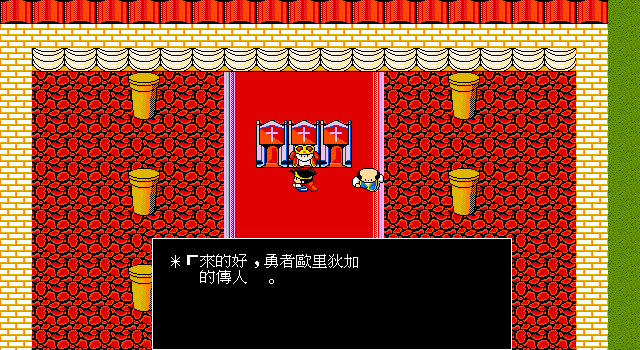
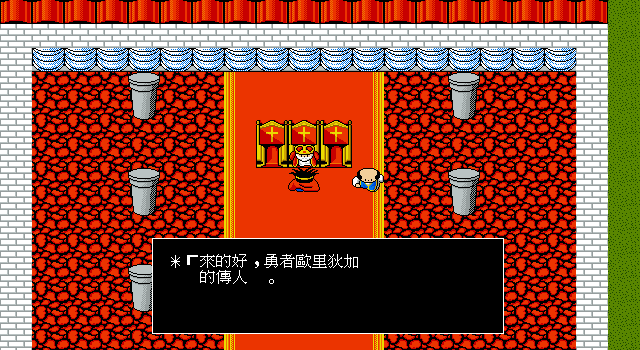
Polish opening throne evidence and progress assessment

diff --git a/dq3_remake_ebitan/game/framedump_test.go b/dq3_remake_ebitan/game/framedump_test.go
@@ -100,9 +100,17 @@ func TestDumpNewGameScreens(t *testing.T) {
 	if !g.tryOpeningRegionEvent() {
 		t.Fatal("王座 opening region 未觸發")
 	}
+	// 證據圖不能在逐字顯示剛開始時截圖，否則會把正確的 record 78
+	// 誤判成文字或分頁缺漏；事件時序另由具名測試驗證。
+	for g.dlg.revealCells < g.dlg.pageCellCount() {
+		g.dlg.Tick()
+	}
 	dump("opening_king_rec78")
 	t.Logf("開場:謁見後 cty=%d sec=%d @(%d,%d), gold=%d items=%v",
 		g.curCty, g.cur.sec, g.px, g.py, g.heroGold, g.inventory)
+	if os.Getenv("DQ3_DUMP_OPENING_ONLY") != "" {
+		return
+	}
 
 	// CTY00 原版 sub2 handler 身分接線後的兩個可達酒場畫面。
 	luida, err := loadTownSceneSec(g.assets, g.worldPal, g.manBLS, 0, mapBlkNum[0], 0, 0, nil)

diff --git a/docs/74-ebiten-remake-completion-plan.md b/docs/74-ebiten-remake-completion-plan.md
@@ -137,13 +137,13 @@
 
 | 畫面族 | 原版證據 | Ebiten 現況 | 判定 |
 |---|---|---|---|
-| 年代／巨龍 cutscene | DOSBox、TIT/FIRST 資產 | `opening` 五張 PCX 已由 game-pack 載入；桌面／mobile 正式入口可無輸入播放、正式輸入跳過並交回標題 | E2／V1；素材 identity 為 D2，120 幀停留、排序／淡入淡出、TITP 位置與音效仍待 V3 |
+| 年代／巨龍 cutscene | DOSBox、TIT/FIRST 資產 | `opening` 五張 PCX 已由 game-pack 載入；桌面／mobile 正式入口可無輸入播放、正式輸入跳過並交回標題 | E2／V1；素材 identity 為 D2，120 幀是 pack 明示近似；淡入淡出、TITP 位置與音效仍待同狀態動態 oracle，不冒稱 V3 |
 | 標題 | DOSBox、影片、網路圖 | 標題／主選單／創角 lifecycle 已有 | E2；逐畫面仍待對拍 |
-| attract 職業巡禮 | 影片、`docs/67` TITH–TITO | pack 八卡輪播、輸入中斷、runtime 圖已接 | E2／V1；能力條逐幀仍待 V3 |
+| attract 職業巡禮 | 影片、`docs/67` TITH–TITO | pack 八卡輪播、輸入中斷、runtime 圖已接；每卡 1200 幀約 20 秒為既有 D2 對拍 | E2／V1；能力條長度、增長節奏與淡入淡出缺逐格 oracle，仍待 V3 且不得猜值 |
 | 主選單 | DOSBox、網路圖 | 新遊戲與載入皆有正式輸入入口；campaign 由新遊戲入口達 E3 | 功能 E3；逐畫面版面仍是可選 V3 |
 | 主角姓名／性別 | DOSBox 正式輸入、IDA、同狀態 PNG | 共用元件與正式 trace；`FIRST.SCR`、record 407 的 13 個具名確認欄位、三層 raw EGA backdrop 與 `beveled_2px` frame 均由 pack 接入 | E3；能力確認固定 checkpoint 已 V3 靜態（AE 1,474／640×350），游標閃爍、palette register、能力條與整段 timing 仍待動態 V3 |
 | 家中／母親 | DOSBox、影片、IDA `sub_1010B` | sec4 家中逐格、轉場後自動行走與同格 rec80→rec79 已由 pack 接線；原始 record 與 handler consumer 閉合 | E3；文字 record／cell layout V3，逐格路線與 wall-clock 仍僅 V2 |
-| 王城謁見 | 攻略、影片、地圖 | 正式 region gate／精確獎勵／一次性已接；rec78 勇者像素差異測試已通過 | E3；角色構圖 V2，viewport／palette／對話框與分頁不是 V3 |
+| 王城謁見 | 攻略、影片、地圖、EXE 全域視窗契約 | 正式 region gate／精確獎勵／一次性已接；rec78 勇者像素差異測試已通過；證據產生器固定輸出完整顯示的 rec78 當頁，避免逐字初始幀造成假缺字 | E3；角色構圖、record／20×4／16×16 cell 已閉合；缺同頁原版畫格，整體仍為 V2，不把 viewport／palette 升格 V3 |
 | 酒場／登錄所 | 攻略、D3TXT、地圖、EXE handler | 正式入口與四人隊正常輸入 trace 已閉合（2026-07-28） | E3 |
 | 四人縱列 | 影片多處 | pack 對映 + 8 步 trail + 死者隊尾 + runtime 對拍已接 | E2；需同狀態 V3 |
 | 城鎮／洞窟 | 影片、全 CTY render、DOSBox、IDA `sub_1BD97` | 通用 loader/render、CTY `+0x11` 遭遇 gate、步數與主線 entrance／event transaction 已接 | 主線 E3；非主線逐入口與同狀態畫面屬可選 V3 |
@@ -1456,5 +1456,6 @@ macOS 真機驗收，分別屬證據限制或可選驗收，不是 remake 功能
   最後一段關閉後才交易旗標並續走。
   同狀態抽樣已消除先前「小型城堡／錯誤背景」判讀，仍未聲稱逐格 timing 或文字分頁 V3。
 - 驗收：`internal/dq3data`、`internal/gamepack` 與開場／三道具目標測試通過；完整 campaign
-  本批未重跑，既有 E3 不因局部測試升降。下一個視覺窄切片是 rec78 同頁文字／角色 sprite
-  與水平 viewport 抽樣，不重新開啟無界 RE。
+  本批未重跑，既有 E3 不因局部測試升降。rec78 dump 已固定為完整當頁，並停止
+  把逐字初始幀當成缺字證據；同頁原版畫格尚不可取得，因此王座整體維持 V2。開場淡入淡出、
+  職業能力條逐格與未具 oracle 的 wall-clock 不以猜值補洞，也不重新開啟無界 RE。

diff --git a/WORKLIST.md b/WORKLIST.md
@@ -1,6 +1,6 @@
 # DQ3 Go／Ebitengine 現行工作清單
 
-更新：2026-08-24。唯一詳細計畫仍是 [`docs/74`](docs/74-ebiten-remake-completion-plan.md)；
+更新：2026-08-25。唯一詳細計畫仍是 [`docs/74`](docs/74-ebiten-remake-completion-plan.md)；
 本檔只保存可快速接手的目前順序，不收錄歷史 C/SDL 工作。
 
 | 順序 | 工作 | 狀態 | 直接證據 |
@@ -19,14 +19,15 @@
 
 | 分類 | 現況 | 是否阻塞 remake 功能完成 |
 |---|---|---|
-| remake 玩家流程 | 六項功能皆已接入；2026-08-24 game test 找到的開場轉場後自動行走缺段已依 [`docs/188`](docs/188-opening-escort-to-castle-spec.md) 改為兩階段 pack 序列；component、正式創角 trace 開場段與王座勇者像素差異均通過 | 否；完整 trace 後段仍會在既有 Lv20 練級上限失敗，與本切片無關 |
-| 原版證據限制 | 藥草治療量、祈禱之戒 MP 回復量、聖水步數仍是 classic／舊 C 近似；部分逐窗、逐幀與音效只到 V1／V2／unknown | 否；文件與程式必須保留近似／未知標記，不得冒稱 exact |
+| remake 玩家流程 | 六項功能皆已接入；開場轉場後自動行走已依 [`docs/188`](docs/188-opening-escort-to-castle-spec.md) 改為兩階段 pack 序列，rec80→rec79、逐字顯示與王座勇者像素檢查均通過 | 否；完整 trace 後段仍會在既有 Lv20 練級上限失敗，與本切片無關 |
+| 原版證據限制 | 藥草、祈禱之戒與聖水參數已由 [`docs/191`](docs/191-field-item-parameter-re.md) 訂正；目前限制是王座同頁原版畫格、開場淡入淡出、職業能力條逐格及部分音效仍只到 V1／V2／unknown | 否；文件與程式必須保留近似／未知標記，不得冒稱 exact |
 | 交付 | `v0.1.35` 已由 commit `b26bb48` 建立 Linux x86_64 AppImage、Windows x86_64 ZIP、macOS x86_64／arm64 ZIP 的公開 patch 與本機完整版；公開 patch 私有素材為 0 | 已完成；checksum、smoke 與限制見 [`docs/190`](docs/190-release-v0.1.35.md) |
 
-2026-08-24 開場抽樣對拍確認：rec80 的事件順序與文字語意相符，但原版城鎮道路／水道背景
-與 remake 小型城堡圖塊顯著不符；rec78 勇者可見且角色關係相符，但 viewport、palette、
-對話框及分頁仍不是 V3。詳見 [`docs/189`](docs/189-opening-sampled-parity-20260824.md)。這些
-不反向推翻 campaign E3，但阻止 README／release 使用「視覺忠實完成」或完整 V3 的措辭。
+2026-08-25 勘誤：[`docs/192`](docs/192-opening-dialogue-v3-closure.md) 已證實先前 rec80
+「小型城堡／錯誤背景」是 BLK 位平面解碼錯誤，修正後同狀態背景與 rec80→rec79 已閉合；
+record 78 的勇者及角色關係亦已由像素差異測試確認。王座同頁原版畫格、開場淡入淡出與
+職業能力條逐格仍缺足夠 oracle，維持 V2／unknown，不反向推翻 campaign E3，也不使用
+「全畫面 V3」措辭。
 
 2026-08-24 玩家路徑 polish：正常產品不再自動退回 FM；注音組字回到獨立下方面板，
 `ㄨㄤˇ` 以明示相容別名補「王」；母親帶路改為 pack-owned 可見逐格序列；NPC 待機切換
@@ -62,7 +63,8 @@ ALSA null smoke 通過，SHA-256 為
 checkpoint。
 
 依使用者決定，完整版與含 MT-32 音樂的推廣片都只在本機保留，不加入 Git 或公開 release；
-公開 patch 使用 v0.1.35 tag。現行 `0.1.51/0.1.57` 已於 `dist-all/v0.1.35/` 重包；Android host audio／真機、macOS 真機與全遊戲 V3 仍是
+公開 patch 使用 v0.1.35 tag。release checkpoint `0.1.51/0.1.57` 已於 `dist-all/v0.1.35/`
+重包；現行 source 已為 schema `0.1.53`／content `0.1.59`，尚未重新發版。Android host audio／真機、macOS 真機與全遊戲 V3 仍是
 可選驗收，不得誤寫成已通過。
 
 本輪依使用者指示不以完整回歸作完成條件。若沒有新的玩家可見差異、正式發行需求或更強
